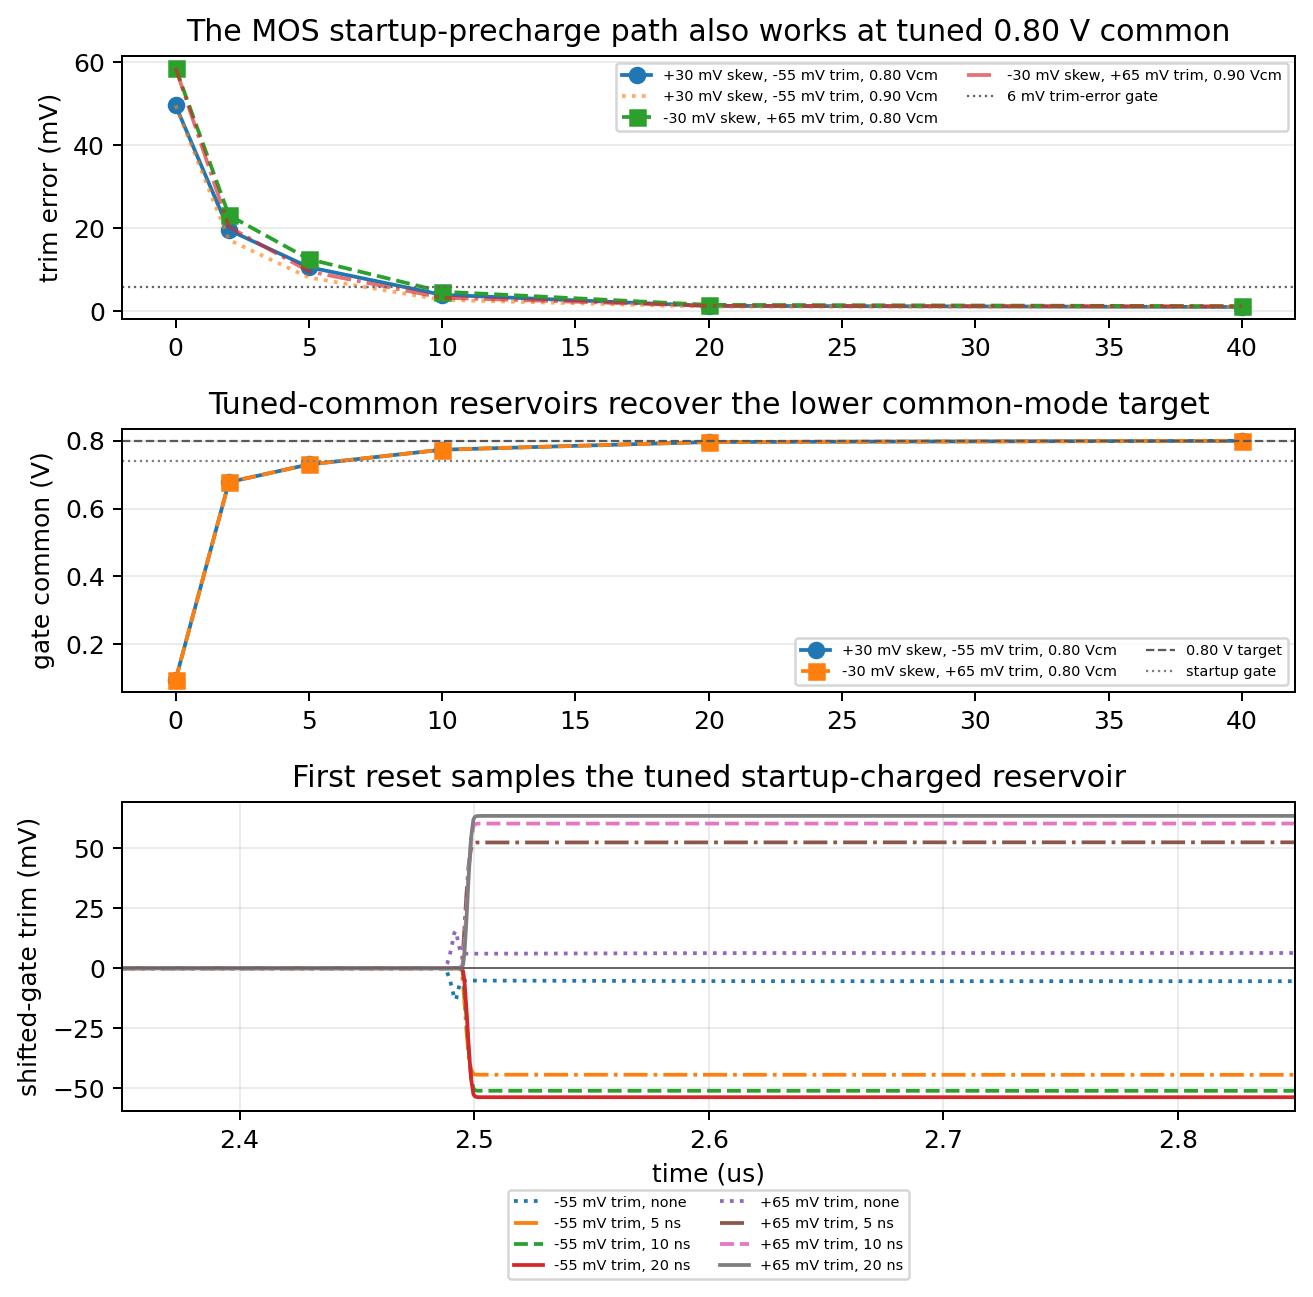
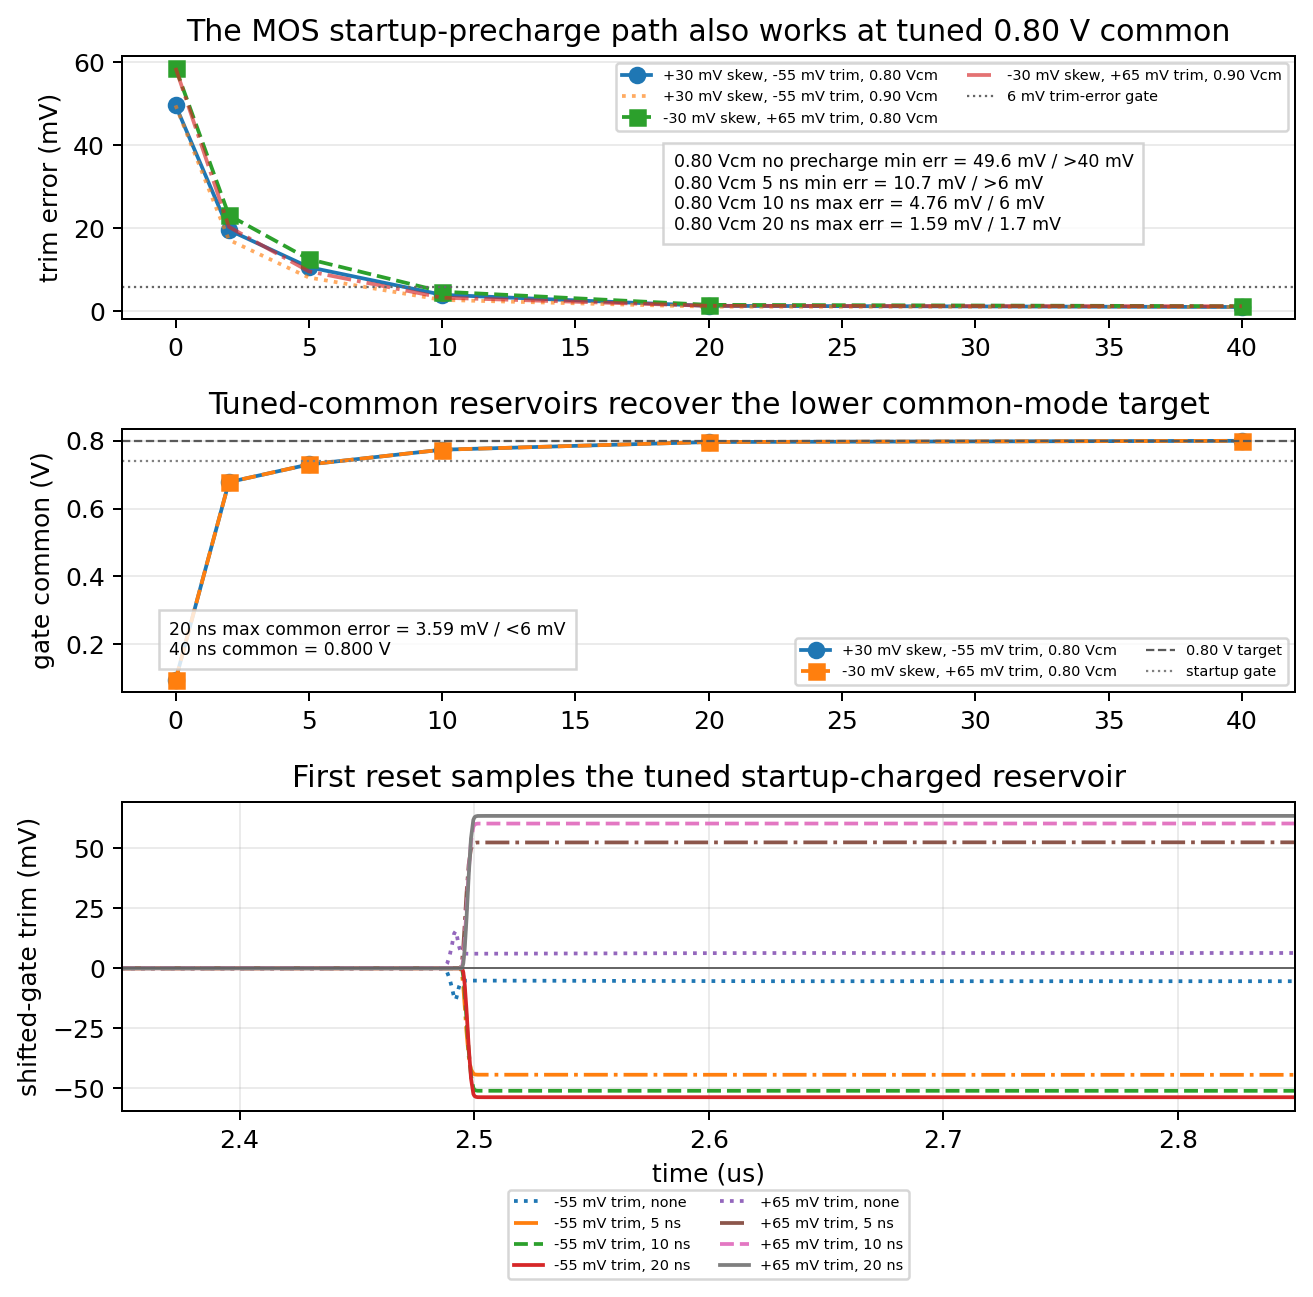
Annotate reset reference precharge margins

Changed region(s): [[0.4996, 0.0925, 0.8119, 0.185], [0.1249, 0.4626, 0.4372, 0.5243], [0.8431, 0.0925, 0.8743, 0.1542]]

diff --git a/spice/run_mos_cell_characterization.py b/spice/run_mos_cell_characterization.py
@@ -15251,6 +15251,21 @@ quit
     shift_refz_precharge_tuned_axes[0].set_ylabel("trim error (mV)")
     shift_refz_precharge_tuned_axes[0].set_title("The MOS startup-precharge path also works at tuned 0.80 V common")
     shift_refz_precharge_tuned_axes[0].grid(True, axis="y", alpha=0.25)
+    shift_refz_precharge_tuned_axes[0].text(
+        0.47,
+        0.34,
+        "0.80 Vcm no precharge min err = "
+        f"{1e3 * np.min(shift_refz_precharge_tuned_trim_error[:, pre_none_idx]):.1f} mV / >40 mV\n"
+        "0.80 Vcm 5 ns min err = "
+        f"{1e3 * np.min(shift_refz_precharge_tuned_trim_error[:, pre_5ns_idx]):.1f} mV / >6 mV\n"
+        "0.80 Vcm 10 ns max err = "
+        f"{1e3 * np.max(shift_refz_precharge_tuned_trim_error[:, pre_10ns_idx]):.2f} mV / 6 mV\n"
+        "0.80 Vcm 20 ns max err = "
+        f"{1e3 * np.max(shift_refz_precharge_tuned_trim_error[:, pre_20ns_idx]):.2f} mV / 1.7 mV",
+        transform=shift_refz_precharge_tuned_axes[0].transAxes,
+        fontsize="x-small",
+        bbox={"facecolor": "white", "alpha": 0.82, "edgecolor": "0.8"},
+    )
     shift_refz_precharge_tuned_axes[0].legend(loc="upper right", ncol=2, fontsize="xx-small")
     for branch_idx, (_branch_name, branch_label, _nfp, _nfm, _trim) in enumerate(shift_reset_branch_specs):
         marker = "o-" if branch_idx == 0 else "s--"
@@ -15265,6 +15280,17 @@ quit
     shift_refz_precharge_tuned_axes[1].set_ylabel("gate common (V)")
     shift_refz_precharge_tuned_axes[1].set_title("Tuned-common reservoirs recover the lower common-mode target")
     shift_refz_precharge_tuned_axes[1].grid(True, axis="y", alpha=0.25)
+    shift_refz_precharge_tuned_axes[1].text(
+        0.04,
+        0.14,
+        "20 ns max common error = "
+        f"{1e3 * np.max(np.abs(shift_refz_precharge_tuned_gate_common[:, pre_20ns_idx] - shift_refz_precharge_tuned_common_v)):.2f} mV / <6 mV\n"
+        "40 ns common = "
+        f"{np.mean(shift_refz_precharge_tuned_gate_common[:, -1]):.3f} V",
+        transform=shift_refz_precharge_tuned_axes[1].transAxes,
+        fontsize="x-small",
+        bbox={"facecolor": "white", "alpha": 0.82, "edgecolor": "0.8"},
+    )
     shift_refz_precharge_tuned_axes[1].legend(loc="lower right", ncol=2, fontsize="xx-small")
     for branch_label, case_label, pct, _ref_diff, gate_diff, _gate_common in shift_refz_precharge_tuned_traces:
         if case_label == "none":
@@ -15334,6 +15360,23 @@ quit
     shift_refz_precharge_strength_axes[0].set_ylabel("trim error (mV)")
     shift_refz_precharge_strength_axes[0].set_title("Startup precharge has a width/time tradeoff")
     shift_refz_precharge_strength_axes[0].grid(True, axis="y", alpha=0.25)
+    shift_refz_precharge_strength_axes[0].text(
+        0.48,
+        0.35,
+        "0.125x 40 ns min err = "
+        f"{1e3 * np.min(shift_refz_precharge_strength_trim_error[:, strength_0125_idx, strength_40ns_idx]):.1f} mV / >15 mV\n"
+        "0.25x 20 ns min err = "
+        f"{1e3 * np.min(shift_refz_precharge_strength_trim_error[:, strength_025_idx, strength_20ns_idx]):.1f} mV / >14 mV\n"
+        "0.25x 40 ns max err = "
+        f"{1e3 * np.max(shift_refz_precharge_strength_trim_error[:, strength_025_idx, strength_40ns_idx]):.2f} mV / 6 mV\n"
+        "0.5x 20 ns max err = "
+        f"{1e3 * np.max(shift_refz_precharge_strength_trim_error[:, strength_05_idx, strength_20ns_idx]):.2f} mV / 6 mV\n"
+        "1.0x 20 ns max err = "
+        f"{1e3 * np.max(shift_refz_precharge_strength_trim_error[:, strength_10_idx, strength_20ns_idx]):.2f} mV / 1.5 mV",
+        transform=shift_refz_precharge_strength_axes[0].transAxes,
+        fontsize="x-small",
+        bbox={"facecolor": "white", "alpha": 0.82, "edgecolor": "0.8"},
+    )
     shift_refz_precharge_strength_axes[0].legend(loc="upper right", ncol=2, fontsize="xx-small")
     for branch_idx, (_branch_name, branch_label, _nfp, _nfm, _trim) in enumerate(shift_reset_branch_specs):
         for pulse_idx, (_pulse_name, pulse_label, _pulse_width_ns) in enumerate(shift_refz_precharge_strength_pulses):
@@ -15357,6 +15400,17 @@ quit
     shift_refz_precharge_strength_axes[1].set_ylabel("gate common (V)")
     shift_refz_precharge_strength_axes[1].set_title("Common-mode restoration tracks the same strength margin")
     shift_refz_precharge_strength_axes[1].grid(True, axis="y", alpha=0.25)
+    shift_refz_precharge_strength_axes[1].text(
+        0.04,
+        0.13,
+        "0.5x 20 ns min common = "
+        f"{np.min(shift_refz_precharge_strength_common[:, strength_05_idx, strength_20ns_idx]):.3f} V / >0.840 V\n"
+        "1.0x 20 ns common = "
+        f"{np.mean(shift_refz_precharge_strength_common[:, strength_10_idx, strength_20ns_idx]):.3f} V",
+        transform=shift_refz_precharge_strength_axes[1].transAxes,
+        fontsize="x-small",
+        bbox={"facecolor": "white", "alpha": 0.82, "edgecolor": "0.8"},
+    )
     shift_refz_precharge_strength_fig.tight_layout()
     save_plot(
         shift_refz_precharge_strength_fig,
@@ -15409,6 +15463,21 @@ quit
     shift_refz_precharge_tuned_strength_axes[0].set_ylabel("trim error (mV)")
     shift_refz_precharge_tuned_strength_axes[0].set_title("Tuned 0.80 V startup can trade width for a 10 ns precharge")
     shift_refz_precharge_tuned_strength_axes[0].grid(True, axis="y", alpha=0.25)
+    shift_refz_precharge_tuned_strength_axes[0].text(
+        0.47,
+        0.35,
+        "1.0x 10 ns min err = "
+        f"{1e3 * np.min(shift_refz_precharge_tuned_strength_trim_error[:, tuned_strength_10_idx, tuned_strength_10ns_idx]):.2f} mV / >3.5 mV\n"
+        "1.25x 10 ns max err = "
+        f"{1e3 * np.max(shift_refz_precharge_tuned_strength_trim_error[:, tuned_strength_125_idx, tuned_strength_10ns_idx]):.2f} mV / 3 mV\n"
+        "1.5x 10 ns max err = "
+        f"{1e3 * np.max(shift_refz_precharge_tuned_strength_trim_error[:, tuned_strength_15_idx, tuned_strength_10ns_idx]):.2f} mV / 2.2 mV\n"
+        "1.0x 20 ns max err = "
+        f"{1e3 * np.max(shift_refz_precharge_tuned_strength_trim_error[:, tuned_strength_10_idx, tuned_strength_20ns_idx]):.2f} mV / 1.7 mV",
+        transform=shift_refz_precharge_tuned_strength_axes[0].transAxes,
+        fontsize="x-small",
+        bbox={"facecolor": "white", "alpha": 0.82, "edgecolor": "0.8"},
+    )
     shift_refz_precharge_tuned_strength_axes[0].legend(loc="upper right", ncol=2, fontsize="xx-small")
     for branch_idx, (_branch_name, branch_label, _nfp, _nfm, _trim) in enumerate(shift_reset_branch_specs):
         for pulse_idx, (_pulse_name, pulse_label, _pulse_width_ns) in enumerate(
@@ -15433,6 +15502,17 @@ quit
     shift_refz_precharge_tuned_strength_axes[1].set_ylabel("gate common (V)")
     shift_refz_precharge_tuned_strength_axes[1].set_title("Extra width restores the lower common target before a fast reset")
     shift_refz_precharge_tuned_strength_axes[1].grid(True, axis="y", alpha=0.25)
+    shift_refz_precharge_tuned_strength_axes[1].text(
+        0.04,
+        0.13,
+        "1.25x 10 ns max common error = "
+        f"{1e3 * np.max(np.abs(shift_refz_precharge_tuned_strength_common[:, tuned_strength_125_idx, tuned_strength_10ns_idx] - shift_refz_precharge_tuned_common_v)):.2f} mV / <15 mV\n"
+        "1.0x 20 ns common = "
+        f"{np.mean(shift_refz_precharge_tuned_strength_common[:, tuned_strength_10_idx, tuned_strength_20ns_idx]):.3f} V",
+        transform=shift_refz_precharge_tuned_strength_axes[1].transAxes,
+        fontsize="x-small",
+        bbox={"facecolor": "white", "alpha": 0.82, "edgecolor": "0.8"},
+    )
     shift_refz_precharge_tuned_strength_fig.tight_layout()
     save_plot(
         shift_refz_precharge_tuned_strength_fig,

diff --git a/engineering_log.md b/engineering_log.md
@@ -2,6 +2,21 @@
 
 ## 2026-05-25
 
+- Family-completed the shifted-gate startup-precharge margin plots.  The
+  tuned-common and strength-sweep ngspice decks already asserted their
+  pass/fail edges, but the rendered figures forced the reader to infer those
+  margins from curves.  The regenerated
+  `mos_hidden_writer_restored_gate_hybrid_update_forward_guard_forward_pair_96u_shifted_gate_reset_ref_precharge_080_ngspice`
+  plot now labels the tuned \(0.80\) V case: no-precharge minimum trim error
+  \(49.6\) mV, \(5\) ns minimum trim error \(10.7\) mV, \(10\) ns maximum
+  trim error \(4.76\) mV, \(20\) ns maximum trim error \(1.59\) mV, and
+  \(20\) ns maximum common error \(3.59\) mV.  The strength-sweep plots now
+  label the width/time tradeoff directly: \(0.125\times\) remains above
+  \(15\) mV even at \(40\) ns, \(0.25\times\) is still marginal at
+  \(20\) ns but recovers at \(40\) ns, \(0.5\times\) recovers at \(20\) ns,
+  and tuned \(0.80\) V fast-start needs about \(1.25\times\) width for a
+  \(10\) ns pulse to clear the \(3\) mV trim gate with \(11.91\) mV common
+  error.
 - Clarified the shifted-gate reset-reference startup-precharge plot.  The
   ngspice deck sweeps explicit precharge pulse width for cold local
   trim-reference reservoirs and already asserted that no precharge remains
